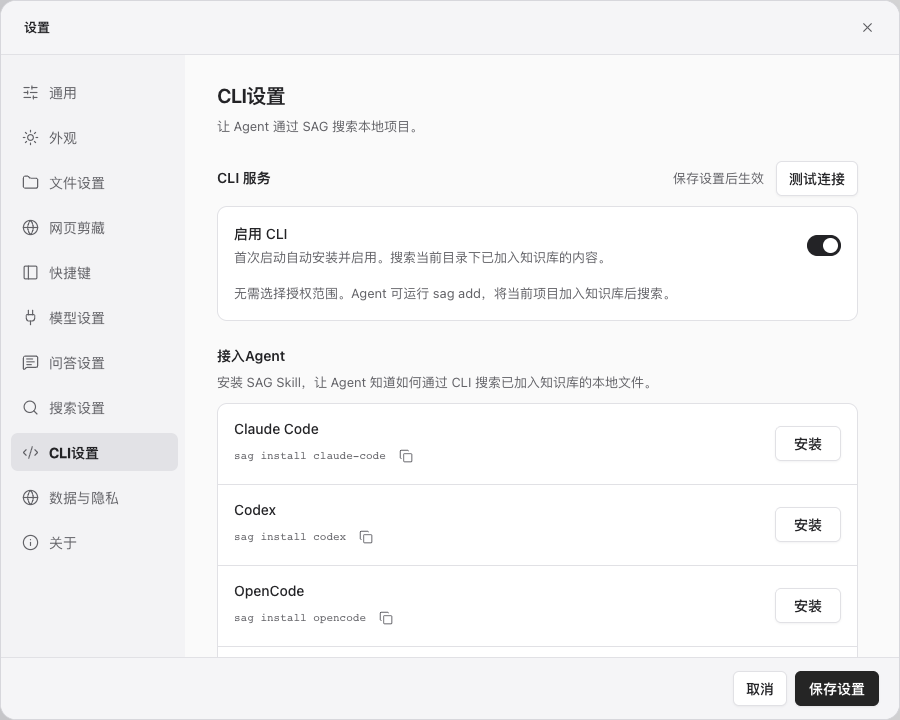
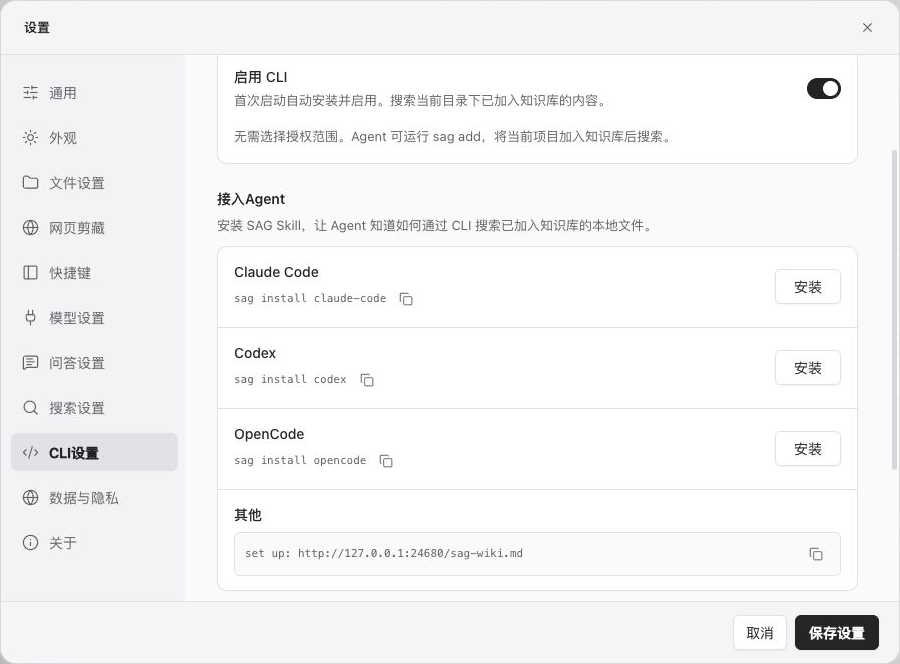
Serve local SAG skill setup instructions

diff --git a/tests/cli-settings.test.ts b/tests/cli-settings.test.ts
@@ -11,24 +11,21 @@ const value:Settings={answer:{url:'https://example.com/v1',model:'test',models:[
 let installed=new Set(['cli']);
 beforeEach(()=>{installed=new Set(['cli']);setLanguage('zh-CN');invoke.mockImplementation(async(command,args)=>{
  if(command==='list_roots')return [{path:'/project',name:'Project',status:'ready',count:5,error:null}];
- if(command==='get_cli_settings')return {access:{enabled:false,roots:[]},installations:['cli','claude-code','codex','opencode'].map(name=>({name,path:`/home/skills/${name}`,installed:installed.has(name),version:installed.has(name)?'0.1.0':null}))};
+ if(command==='get_cli_settings')return {skill_url:'http://127.0.0.1:24680/sag-wiki.md',access:{enabled:false,roots:[]},installations:['cli','claude-code','codex','opencode'].map(name=>({name,path:`/home/skills/${name}`,installed:installed.has(name),version:installed.has(name)?'0.1.0':null}))};
  if(command==='install_cli_integration'){args.uninstall?installed.delete(args.target):installed.add(args.target);return 'installed';}
 });});
 afterEach(async()=>{await unmount(app);document.body.innerHTML='';vi.useRealTimers();vi.clearAllMocks();vi.restoreAllMocks();});
 function click(text:string){const button=[...document.querySelectorAll<HTMLButtonElement>('button')].find(button=>button.textContent?.trim()===text);expect(button,text).toBeDefined();button!.click();}
 async function ready(){await vi.waitFor(()=>expect(document.querySelector('[aria-label="启用 CLI"]')).not.toBeNull());}
-it('Windows Skill 安装位置与下载提示显示普通路径',async()=>{
+it('Windows Skill 安装位置显示普通路径',async()=>{
  const path=String.raw`\\?\C:\Users\PC\skills\sag`;
  invoke.mockImplementation(async command=>{
-  if(command==='get_cli_settings')return{access:{enabled:false,roots:[]},installations:[{name:'codex',path,installed:true,version:'0.1.0'}]};
-  if(command==='download_cli_skill')return path;
+  if(command==='get_cli_settings')return{skill_url:'http://127.0.0.1:24680/sag-wiki.md',access:{enabled:false,roots:[]},installations:[{name:'codex',path,installed:true,version:'0.1.0'}]};
  });
  app=mount(SettingsPanel,{target:document.body,props:{value,initial:'cli',onSave:vi.fn(),onClose:vi.fn()}});await ready();
  document.querySelector<HTMLButtonElement>('.cli-location button')!.click();await tick();
  expect(document.querySelector('.cli-skill-path code')?.textContent).toBe(String.raw`C:\Users\PC\skills\sag`);
- document.querySelector<HTMLButtonElement>('[aria-label="下载 SAG Skill"]')!.click();
- await vi.waitFor(()=>expect(document.querySelector('.cli-feedback[role=status]')?.textContent).toContain(String.raw`C:\Users\PC\skills\sag`));
- expect(document.querySelector('.cli-feedback[role=status]')?.textContent).not.toContain('\\\\?\\');
+
 });
 
 it('saves CLI enabled changes only with the settings form, across tab switches and installation refreshes',async()=>{
@@ -82,7 +79,7 @@ it.each([['claude-code','Claude Code'],['codex','Codex'],['opencode','OpenCode']
  installed.clear();
  app=mount(SettingsPanel,{target:document.body,props:{value,initial:'cli',onSave:vi.fn(),onClose:vi.fn()}});await ready();
  expect(document.querySelectorAll('.cli-install-row')).toHaveLength(4);
- for(const row of document.querySelectorAll('.cli-install-row')){
+ for(const row of [...document.querySelectorAll('.cli-install-row')].slice(0,3)){
   expect(row.querySelectorAll('.cli-action')).toHaveLength(1);
   expect(row.textContent).not.toMatch(/已安装|未安装/);
  }
@@ -288,37 +285,37 @@ it('shows the usage guide last, collapsed by default, without submitting setting
  expect(trigger.getAttribute('aria-expanded')).toBe('false');
 });
 
-it('downloads the complete skill through the last Other row without installing an integration',async()=>{
+it('copies the local setup instruction from Other without installing or downloading',async()=>{
+ const writeText=vi.spyOn(navigator.clipboard,'writeText').mockResolvedValue(undefined);
  app=mount(SettingsPanel,{target:document.body,props:{value,initial:'cli',onSave:vi.fn(),onClose:vi.fn()}});await ready();
- const rows=document.querySelectorAll('.cli-install-row');
- expect(rows[rows.length-1].textContent).toContain('其他');
- expect(rows[rows.length-1].textContent).toContain('下载完整 Skill 文件夹');
- const download=document.querySelector<HTMLButtonElement>('[aria-label="下载 SAG Skill"]')!;
- expect(download.textContent).toBe('下载');
- invoke.mockImplementationOnce(async()=>'/Downloads/sag');download.click();
- await vi.waitFor(()=>expect(document.querySelector('.cli-feedback[role=status]')?.textContent).toContain('/Downloads/sag'));
- expect(invoke).toHaveBeenCalledWith('download_cli_skill',{title:'选择 Skill 保存位置'});
- expect(invoke.mock.calls.some(([command])=>command==='install_cli_integration')).toBe(false);
- expect(download.textContent).toBe('下载');
+ const row=document.querySelectorAll('.cli-install-row')[3];
+ expect(row.textContent).toContain('其他');
+ expect(row.querySelector('code')?.textContent).toBe('set up: http://127.0.0.1:24680/sag-wiki.md');
+ expect(row.textContent).not.toContain('下载');
+ row.querySelector<HTMLButtonElement>('[aria-label="复制其他 Agent 安装指令"]')!.click();
+ await vi.waitFor(()=>expect(document.querySelector('.cli-feedback[role=status]')?.textContent).toContain('已复制 其他 Agent 的安装命令'));
+ expect(writeText).toHaveBeenCalledWith('set up: http://127.0.0.1:24680/sag-wiki.md');
+ expect(invoke.mock.calls.some(([command])=>command==='install_cli_integration'||command==='download_cli_skill')).toBe(false);
 });
 
-it('keeps cancellation silent and makes a failed download retryable',async()=>{
+it('shows copy failures and allows retrying the local setup instruction',async()=>{
+ const writeText=vi.spyOn(navigator.clipboard,'writeText').mockRejectedValueOnce(Error('Clipboard unavailable')).mockResolvedValue(undefined);
  app=mount(SettingsPanel,{target:document.body,props:{value,initial:'cli',onSave:vi.fn(),onClose:vi.fn()}});await ready();
- const download=document.querySelector<HTMLButtonElement>('[aria-label="下载 SAG Skill"]')!;
- invoke.mockResolvedValueOnce(null);download.click();await tick();
- await vi.waitFor(()=>expect(download.disabled).toBe(false));
- expect(document.querySelector('.cli-feedback')).toBeNull();
- invoke.mockRejectedValueOnce(Error('无法创建 Skill 文件夹'));download.click();
- await vi.waitFor(()=>expect(document.querySelector('.cli-error')?.textContent).toContain('无法创建 Skill 文件夹'));
- expect(download.disabled).toBe(false);
+ const copy=document.querySelector<HTMLButtonElement>('[aria-label="复制其他 Agent 安装指令"]')!;
+ copy.click();
+ await vi.waitFor(()=>expect(document.querySelector('.cli-error')?.textContent).toContain('Clipboard unavailable'));
+ expect(copy.disabled).toBe(false);copy.click();
+ await vi.waitFor(()=>expect(document.querySelector('.cli-feedback[role=status]')?.textContent).toContain('已复制'));
+ expect(writeText).toHaveBeenCalledTimes(2);expect(document.querySelector('.cli-error')).toBeNull();
 });
 
-it('translates the download row and success message',async()=>{
+it('translates the local setup row and copy feedback',async()=>{
+ vi.spyOn(navigator.clipboard,'writeText').mockResolvedValue(undefined);
  app=mount(SettingsPanel,{target:document.body,props:{value,initial:'cli',onSave:vi.fn(),onClose:vi.fn()}});await ready();
  setLanguage('en');await tick();
- const download=document.querySelector<HTMLButtonElement>('[aria-label="Download SAG Skill"]')!;
+ const copy=document.querySelector<HTMLButtonElement>('[aria-label="Copy setup instruction for other agents"]')!;
  expect(document.querySelectorAll('.cli-install-row')[3].textContent).toContain('Other');
- invoke.mockResolvedValueOnce('/Downloads/sag');download.click();
- await vi.waitFor(()=>expect(document.querySelector('.cli-feedback[role=status]')?.textContent).toContain('Skill downloaded to /Downloads/sag'));
- expect(invoke).toHaveBeenCalledWith('download_cli_skill',{title:'Choose where to save the Skill'});
+ copy.click();
+ await vi.waitFor(()=>expect(document.querySelector('.cli-feedback[role=status]')?.textContent).toContain('Other agents'));
+ expect(document.querySelector('code[aria-label="Setup instruction for other agents"]')?.textContent).toBe('set up: http://127.0.0.1:24680/sag-wiki.md');
 });

diff --git a/src/components/CliSettings.svelte b/src/components/CliSettings.svelte
@@ -16,10 +16,10 @@
  export let connectionOpen=false;
  export let connectionSuccessUntil=0;
  type Installation={name:string;path:string;installed:boolean;version:string|null};
- let installations:Installation[]=[],loaded=false,error='',notice='';
+ let installations:Installation[]=[],loaded=false,error='',notice='',skillUrl='';
  let connectionSuccessVisible=false,disposed=false;
  let connectionTimer:ReturnType<typeof setTimeout>|undefined;
- let operation:{target:string;kind:'install'|'uninstall'|'test'|'download'}|null=null;
+ let operation:{target:string;kind:'install'|'uninstall'|'test'}|null=null;
  let copiedCommand:string|null=null;
  let savedAccess:CliAccess|undefined;
  const successFadeDuration=window.matchMedia('(prefers-reduced-motion: reduce)').matches?0:800;
@@ -41,10 +41,10 @@
  }
 
  async function load(){
-  const config=await api<{access:CliAccess;installations:Installation[];install_error?:string|null}>('get_cli_settings');
+  const config=await api<{access:CliAccess;installations:Installation[];install_error?:string|null;skill_url:string}>('get_cli_settings');
   savedAccess=config.access;
   access=access??config.access;
-  installations=config.installations;error=config.install_error??'';loaded=true;
+  installations=config.installations;skillUrl=config.skill_url;error=config.install_error??'';loaded=true;
  }
  async function refresh(){pending=true;error='';try{await load();}catch(e){error=String(e);}finally{pending=false;}}
  onMount(()=>{void refresh();});
@@ -60,8 +60,8 @@
  async function copyCommand(name:string){
   error='';notice='';copiedCommand=null;
   try{
-   await navigator.clipboard.writeText(`sag install ${name}`);
-   copiedCommand=name;notice=$t('已复制 {value0} 的安装命令',{value0:names[name]});
+   await navigator.clipboard.writeText(name==='other'?`set up: ${skillUrl}`:`sag install ${name}`);
+   copiedCommand=name;notice=$t('已复制 {value0} 的安装命令',{value0:name==='other'?$t('其他 Agent'):names[name]});
   }catch(e){error=$t('复制失败：{value0}',{value0:String(e)});}
  }
  async function testConnection(){
@@ -74,13 +74,6 @@
    const result=await api<string>('test_cli_connection');
    if(!disposed){connectionSuccessUntil=Date.now()+3000;connection=result;}
   }catch(e){if(!disposed)error=String(e);}finally{pending=false;operation=null;}
- }
- async function downloadSkill(){
-  pending=true;error='';notice='';operation={target:'other',kind:'download'};
-  try{
-   const path=await api<string|null>('download_cli_skill',{title:$t('选择 Skill 保存位置')});
-   if(path)notice=$t('Skill 已下载到 {value0}。请将 sag 文件夹添加到所用工具的 Skills 目录。',{value0:displayPath(path)});
-  }catch(e){error=String(e);}finally{pending=false;operation=null;}
  }
 </script>
 
@@ -118,8 +111,7 @@
      </div>
     {/each}
     <div class="cli-install-row">
-     <div class="cli-install-info"><strong>{$t('其他')}</strong><p class="cli-download-description">{$t('下载完整 Skill 文件夹，接入到其他Agent。')}</p></div>
-     <Button.Root type="button" class="outline cli-action" disabled={disabled} aria-label={$t('下载 SAG Skill')} onclick={downloadSkill}>{operation?.kind==='download'?$t('下载中…'):$t('下载')}</Button.Root>
+     <div class="cli-install-info"><strong>{$t('其他')}</strong><p class="cli-setup-hint">{$t('复制以下指令，发送给你的 Agent 完成接入。')}</p><div class="cli-command-copy cli-setup-copy"><code class="cli-install-command" aria-label={$t('其他 Agent 的安装指令')}>set up: {skillUrl}</code><Button.Root type="button" class="icon-button cli-copy" disabled={disabled} aria-label={$t('复制其他 Agent 安装指令')} title={copiedCommand==='other'?$t('已复制'):$t('复制安装命令')} onclick={()=>copyCommand('other')}>{@html icon(copiedCommand==='other'?'check':'copy')}</Button.Root></div></div>
     </div>
    </div>
   </section>
@@ -197,7 +189,6 @@ sag --help</code></pre>
  .cli-install-row{display:flex;align-items:center;gap:12px;padding:14px 16px;min-height:68px}
  .cli-install-row+.cli-install-row{border-top:1px solid var(--color-rule)}
  .cli-install-info{flex:1;min-width:0}
- .cli-download-description{margin:4px 0 0;font-size:var(--text-caption);line-height:1.5;color:var(--color-secondary)}
  .cli-settings :global(.cli-action){min-width:66px;min-height:32px;white-space:nowrap;flex-shrink:0}
  .cli-settings :global(.cli-action.cli-uninstall){background:var(--color-danger);border-color:var(--color-danger);color:var(--color-danger-ink)}
  .cli-settings :global(button:disabled){opacity:.5;cursor:default}
@@ -211,6 +202,9 @@ sag --help</code></pre>
  .cli-settings :global(.cli-location-content code){display:block;overflow-wrap:anywhere;font:11px/1.6 var(--font-mono)}
  .cli-settings :global(.cli-location-content p){margin:6px 0 0}
  .cli-command-copy{display:flex;align-items:center;gap:6px;margin-top:3px}
+ .cli-setup-hint{margin:4px 0 0;font-size:var(--text-caption);line-height:1.6;color:var(--color-secondary)}
+ .cli-setup-copy{padding:7px 10px;margin-top:7px;border:1px solid var(--color-rule);border-radius:6px;background:var(--color-panel)}
+ .cli-setup-copy code{flex:1;min-width:0}
  .cli-settings :global(.cli-copy){display:inline-flex;align-items:center;justify-content:center;width:28px;height:28px;flex-shrink:0;color:var(--color-secondary)}
  .cli-settings :global(.cli-copy .icon){width:14px;height:14px}
  .cli-install-command{display:block;user-select:text;overflow-wrap:anywhere;font:11px/1.6 var(--font-mono);color:var(--color-secondary)}

diff --git a/bench/docs.ts b/bench/docs.ts
@@ -36,7 +36,7 @@ const graphEdges=[{source:1,target:2,source_hash:'demo-0',target_hash:'demo-1',s
 const handlers:Record<string,(a:any)=>any>={
  explore_overview:()=>({scope:root,version:1,total:docs.length,documents:graphDocs,known_documents:graphDocs,indexing:false,partial:false}),explore_graph:()=>({scope:root,version:1,snapshot:'demo',documents:graphDocs,edges:graphEdges}),
  get_settings:()=>structuredClone(settings),list_roots:()=>roots,list_files:()=>docs.map(({body,...d})=>d),list_entries:()=>docs.map(d=>({path:d.path,name:d.name,directory:false,symlink:false})),get_index_status:()=>({paused:false,tasks:[]}),list_drafts:()=>[],list_removed_directories:()=>[],list_notes:()=>[],list_conversations:()=>[conversation,{...conversation,id:'previous',title:text('如何收集试用反馈？','How do we collect trial feedback?'),updated:now-86400000}],get_conversation:()=>conversation,read_document:a=>docs.find(d=>d.path===a.path)||docs[0],get_index_history:()=>history,get_index_history_log:()=>({raw:docs.map(d=>JSON.stringify({time:now,path:d.path,stage:'indexing',status:'complete',error:null})).join('\n')+'\n'+JSON.stringify({time:now,path:root+'/archive.pdf',stage:'converting',status:'failed',error:'File cannot be read'})}),
- run_query:()=>({terms:[text('发布','release')],elapsed_ms:120,results:evidence,pagination:null,trace:[],conversation}),summarize_search:()=>({text:answer,evidence}),get_docling_status:()=>docling,docling_status:()=>docling,get_cli_settings:()=>({access:{enabled:true},installations:['claude-code','codex','opencode'].map(name=>({name,path:'',installed:false,version:null}))}),get_web_clipper:()=>({packages:['chrome','safari']}),get_folder_index_options:()=>({file_types:{markdown:true,text:true,code:false,config:false},convert_other_formats:false,conversion_formats:[]}),check_updates:()=>({current_version:version,latest_version:version,available:false,notes:'',download_url:null}),
+ run_query:()=>({terms:[text('发布','release')],elapsed_ms:120,results:evidence,pagination:null,trace:[],conversation}),summarize_search:()=>({text:answer,evidence}),get_docling_status:()=>docling,docling_status:()=>docling,get_cli_settings:()=>({skill_url:'http://127.0.0.1:24680/sag-wiki.md',access:{enabled:true},installations:['claude-code','codex','opencode'].map(name=>({name,path:'',installed:false,version:null}))}),get_web_clipper:()=>({packages:['chrome','safari']}),get_folder_index_options:()=>({file_types:{markdown:true,text:true,code:false,config:false},convert_other_formats:false,conversion_formats:[]}),check_updates:()=>({current_version:version,latest_version:version,available:false,notes:'',download_url:null}),
 };
 (window as any).__TAURI_INTERNALS__={metadata:{currentWindow:{label:'main'},currentWebview:{windowLabel:'main',label:'main'}},invoke:async(command:string,args:any={})=>handlers[command]?handlers[command](args):command.startsWith('plugin:')?0:null,transformCallback:()=>1,unregisterCallback:()=>{},convertFileSrc:(path:string)=>path};
 (window as any).__TAURI_EVENT_PLUGIN_INTERNALS__={unregisterListener:()=>{}};

diff --git a/core/src/skill_http.rs b/core/src/skill_http.rs
@@ -1,0 +1,39 @@
+use anyhow::{bail, Context, Result};
+use tokio::{io::{AsyncBufReadExt, AsyncReadExt, AsyncWriteExt, BufReader}, net::TcpStream};
+
+const SKILL: &str = include_str!("../../cli/skills/sag/SKILL.md");
+
+// Only bundled, public instructions are exposed here; RPC keeps its token authentication.
+pub async fn serve(mut stream: TcpStream) -> Result<()> {
+    let request = tokio::time::timeout(std::time::Duration::from_secs(10), async {
+        let mut reader = BufReader::new(&mut stream);
+        let mut bytes = Vec::new();
+        loop {
+            let start = bytes.len();
+            let count = (&mut reader).take((8193 - start) as u64).read_until(b'\n', &mut bytes).await?;
+            if count == 0 { bail!("HTTP 请求未完成") }
+            if bytes.len() > 8192 { bail!("HTTP 请求头超过上限") }
+            if matches!(&bytes[start..], b"\r\n" | b"\n") { break; }
+        }
+        Ok::<_, anyhow::Error>(bytes)
+    }).await.context("HTTP 请求超时")??;
+    let line = std::str::from_utf8(request.split(|byte| *byte == b'\n').next().unwrap())?;
+    let mut parts = line.split_whitespace();
+    let (method, path, version) = (parts.next(), parts.next(), parts.next());
+    let (status, body) = match (method, path, version) {
+        (Some("GET" | "HEAD"), Some(path), Some("HTTP/1.0" | "HTTP/1.1")) => match path {
+            "/sag-wiki.md" | "/SKILL.md" => ("200 OK", SKILL),
+            "/references/setup.md" => ("200 OK", include_str!("../../cli/skills/sag/references/setup.md")),
+            "/references/parameters.md" => ("200 OK", include_str!("../../cli/skills/sag/references/parameters.md")),
+            "/references/ignores.md" => ("200 OK", include_str!("../../cli/skills/sag/references/ignores.md")),
+            _ => ("404 Not Found", "Not found\n"),
+        },
+        (Some(_), Some(_), Some("HTTP/1.0" | "HTTP/1.1")) => ("405 Method Not Allowed", "Use GET or HEAD\n"),
+        _ => ("400 Bad Request", "Bad request\n"),
+    };
+    let headers = format!("HTTP/1.1 {status}\r\nContent-Type: text/markdown; charset=utf-8\r\nContent-Length: {}\r\nCache-Control: no-store\r\nX-Content-Type-Options: nosniff\r\nConnection: close\r\n\r\n", body.len());
+    stream.write_all(headers.as_bytes()).await?;
+    if method != Some("HEAD") { stream.write_all(body.as_bytes()).await?; }
+    stream.shutdown().await?;
+    Ok(())
+}

diff --git a/core/src/service_tests.rs b/core/src/service_tests.rs
@@ -1289,3 +1289,35 @@ async fn save_note_writes_an_anchored_file_and_tracks_source_changes() {
     assert_eq!(all.len(), 1);
     stop(&client, server).await;
 }
+
+#[tokio::test]
+async fn local_skill_http_serves_bundled_files_without_affecting_rpc() {
+    let (dir, client, server) = start().await;
+    let endpoint: Endpoint = serde_json::from_slice(
+        &std::fs::read(dir.path().join("data/sag-service.json")).unwrap(),
+    ).unwrap();
+    let base = format!("http://127.0.0.1:{}", endpoint.port);
+    let http = reqwest::Client::new();
+    for (path, expected) in [
+        ("/sag-wiki.md", include_str!("../../cli/skills/sag/SKILL.md")),
+        ("/SKILL.md", include_str!("../../cli/skills/sag/SKILL.md")),
+        ("/references/setup.md", include_str!("../../cli/skills/sag/references/setup.md")),
+        ("/references/parameters.md", include_str!("../../cli/skills/sag/references/parameters.md")),
+        ("/references/ignores.md", include_str!("../../cli/skills/sag/references/ignores.md")),
+    ] {
+        let response = http.get(format!("{base}{path}")).send().await.unwrap();
+        assert_eq!(response.status(), 200);
+        assert_eq!(response.headers()["content-type"], "text/markdown; charset=utf-8");
+        assert_eq!(response.text().await.unwrap(), expected);
+    }
+    let head = http.head(format!("{base}/sag-wiki.md")).send().await.unwrap();
+    assert_eq!(head.status(), 200);
+    assert_eq!(head.headers()["content-length"], include_str!("../../cli/skills/sag/SKILL.md").len().to_string());
+    assert!(head.bytes().await.unwrap().is_empty());
+    for path in ["/credentials.json", "/references/other.md", "/sag-service.json"] {
+        assert_eq!(http.get(format!("{base}{path}")).send().await.unwrap().status(), 404);
+    }
+    assert_eq!(http.post(format!("{base}/sag-wiki.md")).send().await.unwrap().status(), 405);
+    assert!(matches!(call(&client, Operation::Info).await, Output::Info(_)));
+    stop(&client, server).await;
+}

diff --git a/src-tauri/src/cli_commands.rs b/src-tauri/src/cli_commands.rs
@@ -10,6 +10,7 @@ pub struct IntegrationSettings {
     access: Access,
     installations: Vec<install::Installation>,
     install_error: Option<String>,
+    skill_url: String,
 }
 #[tauri::command]
 pub async fn get_cli_settings(
@@ -24,9 +25,14 @@ pub async fn get_cli_settings(
                 .map_err(error)?,
         );
     }
+    let access = serde_json::from_value(rpc(&state, Operation::GetAccess).await?).map_err(error)?;
+    let endpoint: sag_protocol::Endpoint = serde_json::from_slice(
+        &std::fs::read(state.data_dir.join("sag-service.json")).map_err(error)?,
+    ).map_err(error)?;
     Ok(IntegrationSettings {
-        access: serde_json::from_value(rpc(&state, Operation::GetAccess).await?).map_err(error)?,
+        access,
         install_error: state.cli_install_error.lock().unwrap().clone(),
+        skill_url: format!("http://127.0.0.1:{}/sag-wiki.md", endpoint.port),
         installations,
     })
 }

diff --git a/core/src/server.rs b/core/src/server.rs
@@ -105,6 +105,13 @@ async fn serve(
     requests: Arc<Semaphore>,
 ) -> Result<()> {
     stream.set_nodelay(true)?;
+    let mut first = [0u8; 1];
+    if tokio::time::timeout(Duration::from_secs(10), stream.peek(&mut first)).await?? == 0 {
+        return Ok(());
+    }
+    if first[0].is_ascii_alphabetic() {
+        return crate::skill_http::serve(stream).await;
+    }
     let (read, write) = stream.into_split();
     let mut read = BufReader::new(read);
     let write = Arc::new(tokio::sync::Mutex::new(write));

diff --git a/core/src/lib.rs b/core/src/lib.rs
@@ -26,3 +26,4 @@ pub mod protocol;
 pub mod explore;
 pub mod service;
 pub mod server;
+mod skill_http;

diff --git a/cli/skills/sag/references/setup.md b/cli/skills/sag/references/setup.md
@@ -15,7 +15,7 @@ When asked to install this Skill and enable SAG for a project, complete the appl
 
    The npm package supports macOS Apple Silicon and Windows x64, and requires Node.js 18 or later. Check the actual system and architecture before installation. If Node.js or npm is missing, arrange Node.js installation through the user's existing package manager or [official installer](https://nodejs.org/en/download), within the environment's permissions. Report an unsupported platform or installation failure directly; source compilation is not part of normal setup. npm owns this command's installation and PATH entry; an additional `sag install cli` is unnecessary.
 
-2. Install the current Skill folder for the active agent at the [location below](#installation-and-removal), including `SKILL.md` and all three references: `setup.md`, `parameters.md`, and `ignores.md`. Retrieve all four files from the [canonical GitHub folder](https://github.com/Zleap-AI/SAG-Wiki/tree/main/cli/skills/sag), without building the repository. Preserve user-edited files and unrelated skills. The npm CLI embeds a release-time Skill snapshot, so `sag install codex`, `sag install claude-code`, or `sag install opencode` may supply older instructions. Keep the GitHub version when following this setup. A new agent session loads it automatically; use the instructions already read to finish the current setup.
+2. Install the current Skill folder for the active agent at the [location below](#installation-and-removal), including `SKILL.md` and all three references: `setup.md`, `parameters.md`, and `ignores.md`. Retrieve all four files from the source URL the user supplied; save a local `sag-wiki.md` entry as `SKILL.md` and keep the `references/` subdirectory. When no source was supplied, use the [canonical GitHub folder](https://github.com/Zleap-AI/SAG-Wiki/tree/main/cli/skills/sag). Preserve user-edited files and unrelated skills. The npm CLI embeds a release-time Skill snapshot, so retain the explicitly supplied version when following this setup. A new agent session loads it automatically; use the instructions already read to finish the current setup.
 
 3. Run `sag config --if-needed` to reuse existing Jev settings. For a user-supplied unauthenticated Jev service, configure `--auth none` as described below. If Bearer authentication needs a key, have the user run `sag` in an interactive terminal and enter their Jev endpoint, model and API key there. The key input is hidden. If credentials were already supplied through a secure local source, use `sag config --key-stdin` as described below. Do not request keys in chat. Only the Jev retrieval configuration is required for CLI semantic search; a desktop answer model is unnecessary.
 

diff --git a/cli/skills/sag/SKILL.md b/cli/skills/sag/SKILL.md
@@ -9,7 +9,7 @@ Run the installed `sag` command from the project directory, not this Skill direc
 
 For installation requests or a missing `sag` command, follow [first-use setup](references/setup.md#first-use-setup). Install the standalone CLI through `npm install -g @zleap-ai/sag`; SAG Wiki desktop is optional. Reuse an existing CLI and configuration.
 
-The canonical installation entry is [this GitHub SKILL.md](https://github.com/Zleap-AI/SAG-Wiki/blob/main/cli/skills/sag/SKILL.md). For installation requests, retrieve it and all sibling references from the [same source folder](https://github.com/Zleap-AI/SAG-Wiki/tree/main/cli/skills/sag), then install them for the current agent. Use that GitHub version throughout setup; an older CLI's bundled Skill may predate these instructions.
+For installation requests, retrieve this entry and its three linked references from the source URL supplied by the user, then install them for the current agent. A local `/sag-wiki.md` entry is served by the running SAG Wiki service; save it as `SKILL.md` and resolve `references/` against the same local URL. Reuse the installed CLI and its configuration. When no source is supplied, use the [canonical GitHub SKILL.md](https://github.com/Zleap-AI/SAG-Wiki/blob/main/cli/skills/sag/SKILL.md) and [its source folder](https://github.com/Zleap-AI/SAG-Wiki/tree/main/cli/skills/sag).
 
 ## Search
 
